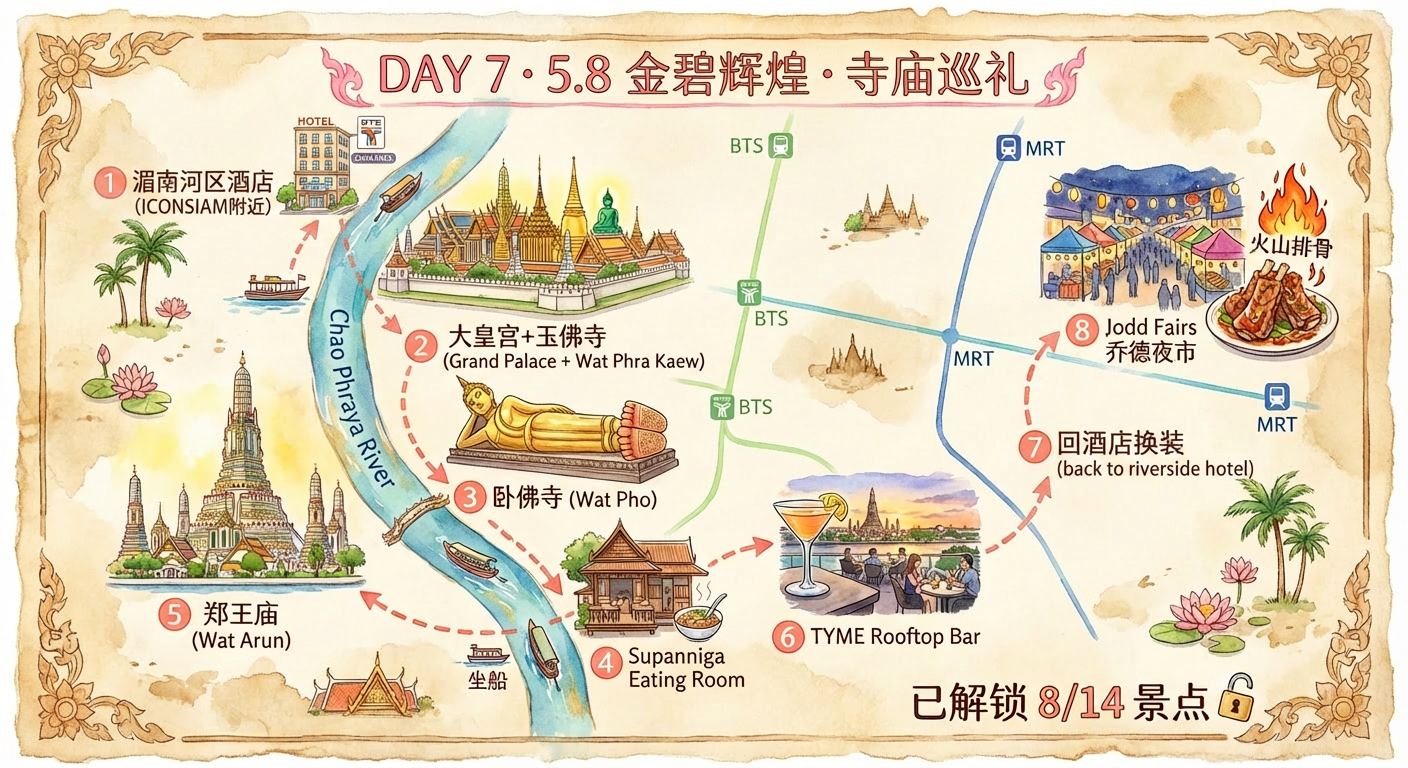
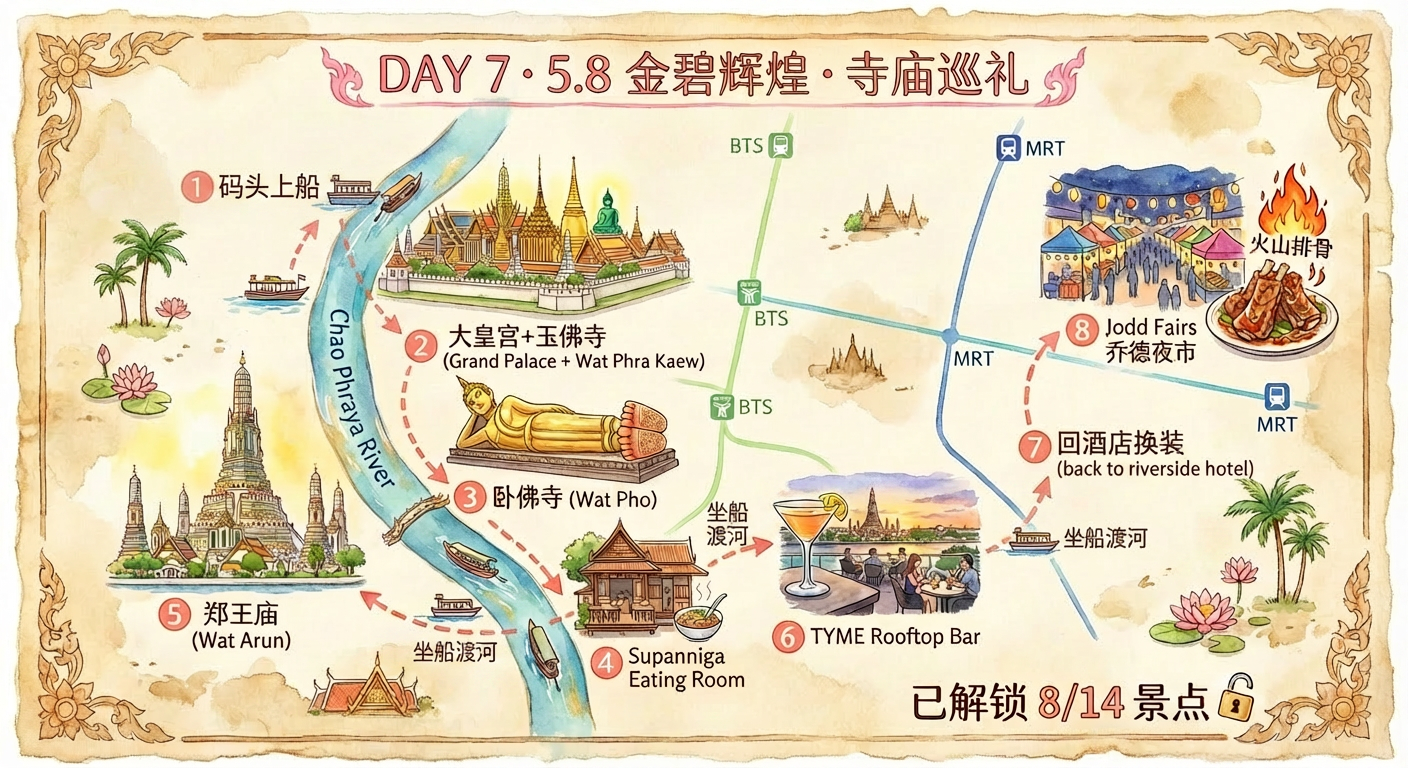
feat: 修正所有曼谷地图地理位置+新增5.7飞抵曼谷ICONSIAM地图
- ICONSIAM确认在湄南河西岸(Thonburi区)，和郑王庙同侧
- 大皇宫、卧佛寺确认在东岸
- 移除所有地图中的酒店标记(位置待定)
- 新增map-bangkok-day6.png: 机场→ICONSIAM河畔购物
- 修正map-bangkok-day7.png: 起点改为码头上船
- 修正map-bangkok-overview.png: 全景地理位置准确
- 修正map-phuket-day6.png: 曼谷部分改为ICONSIAM(原暹罗商圈)
- BangkokMapData新增Day6 tab

diff --git a/src/data/culture.ts b/src/data/culture.ts
@@ -589,13 +589,22 @@ spots: 14,
 desc: '3天14个景点全部解锁！寺庙巡礼、ICONSIAM购物、铁道奇观、水上集市、夜市探险，感受天使之城的金碧辉煌',
 },
 {
+day: 6,
+label: '5.7 飞抵曼谷·ICONSIAM',
+title: '飞抵曼谷·ICONSIAM河畔购物',
+color: '#e07a5f',
+img: '/map-bangkok-day6.png',
+spots: 3,
+desc: '素万那普机场→Grab约40分钟→ICONSIAM暹罗天地（Sook Siam室内水上市场+河畔购物）',
+},
+{
 day: 7,
 label: '5.8 金碧辉煌·寺庙巡礼',
 title: '金碧辉煌·寺庙巡礼',
 color: '#ff6b6b',
 img: '/map-bangkok-day7.png',
 spots: 8,
-desc: '湄南河区酒店坐船→大皇宫+玉佛寺→卧佛寺→Supanniga河景午餐→郑王庙→TYME Rooftop日落→Jodd Fairs夜市',
+desc: '码头上船→大皇宫+玉佛寺→卧佛寺→Supanniga河景午餐→郑王庙→TYME Rooftop日落→Jodd Fairs夜市',
 },
 {
 day: 8,
